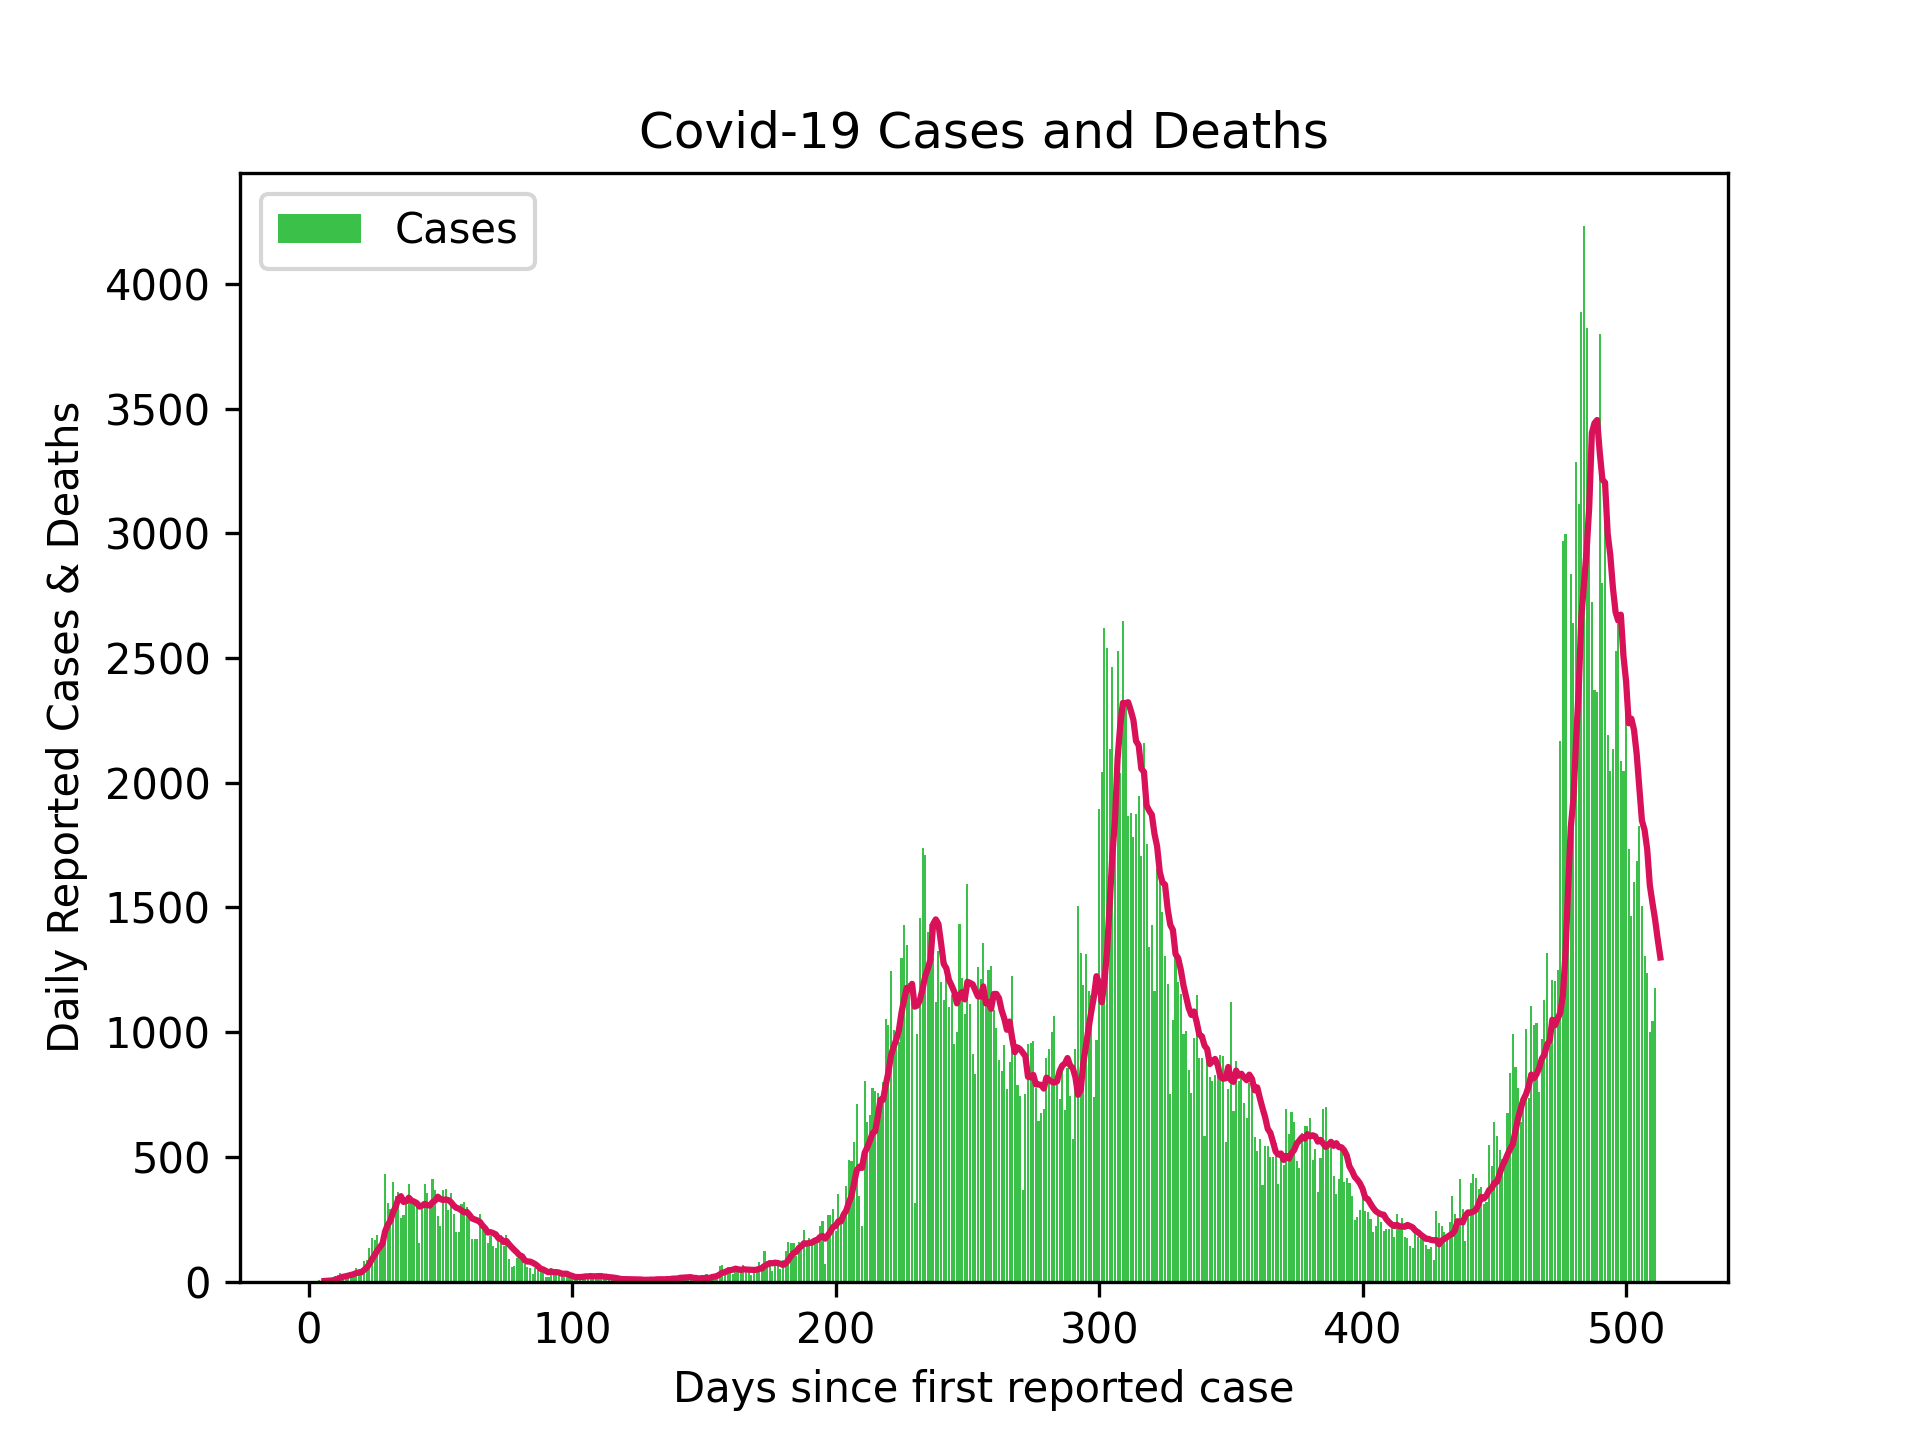
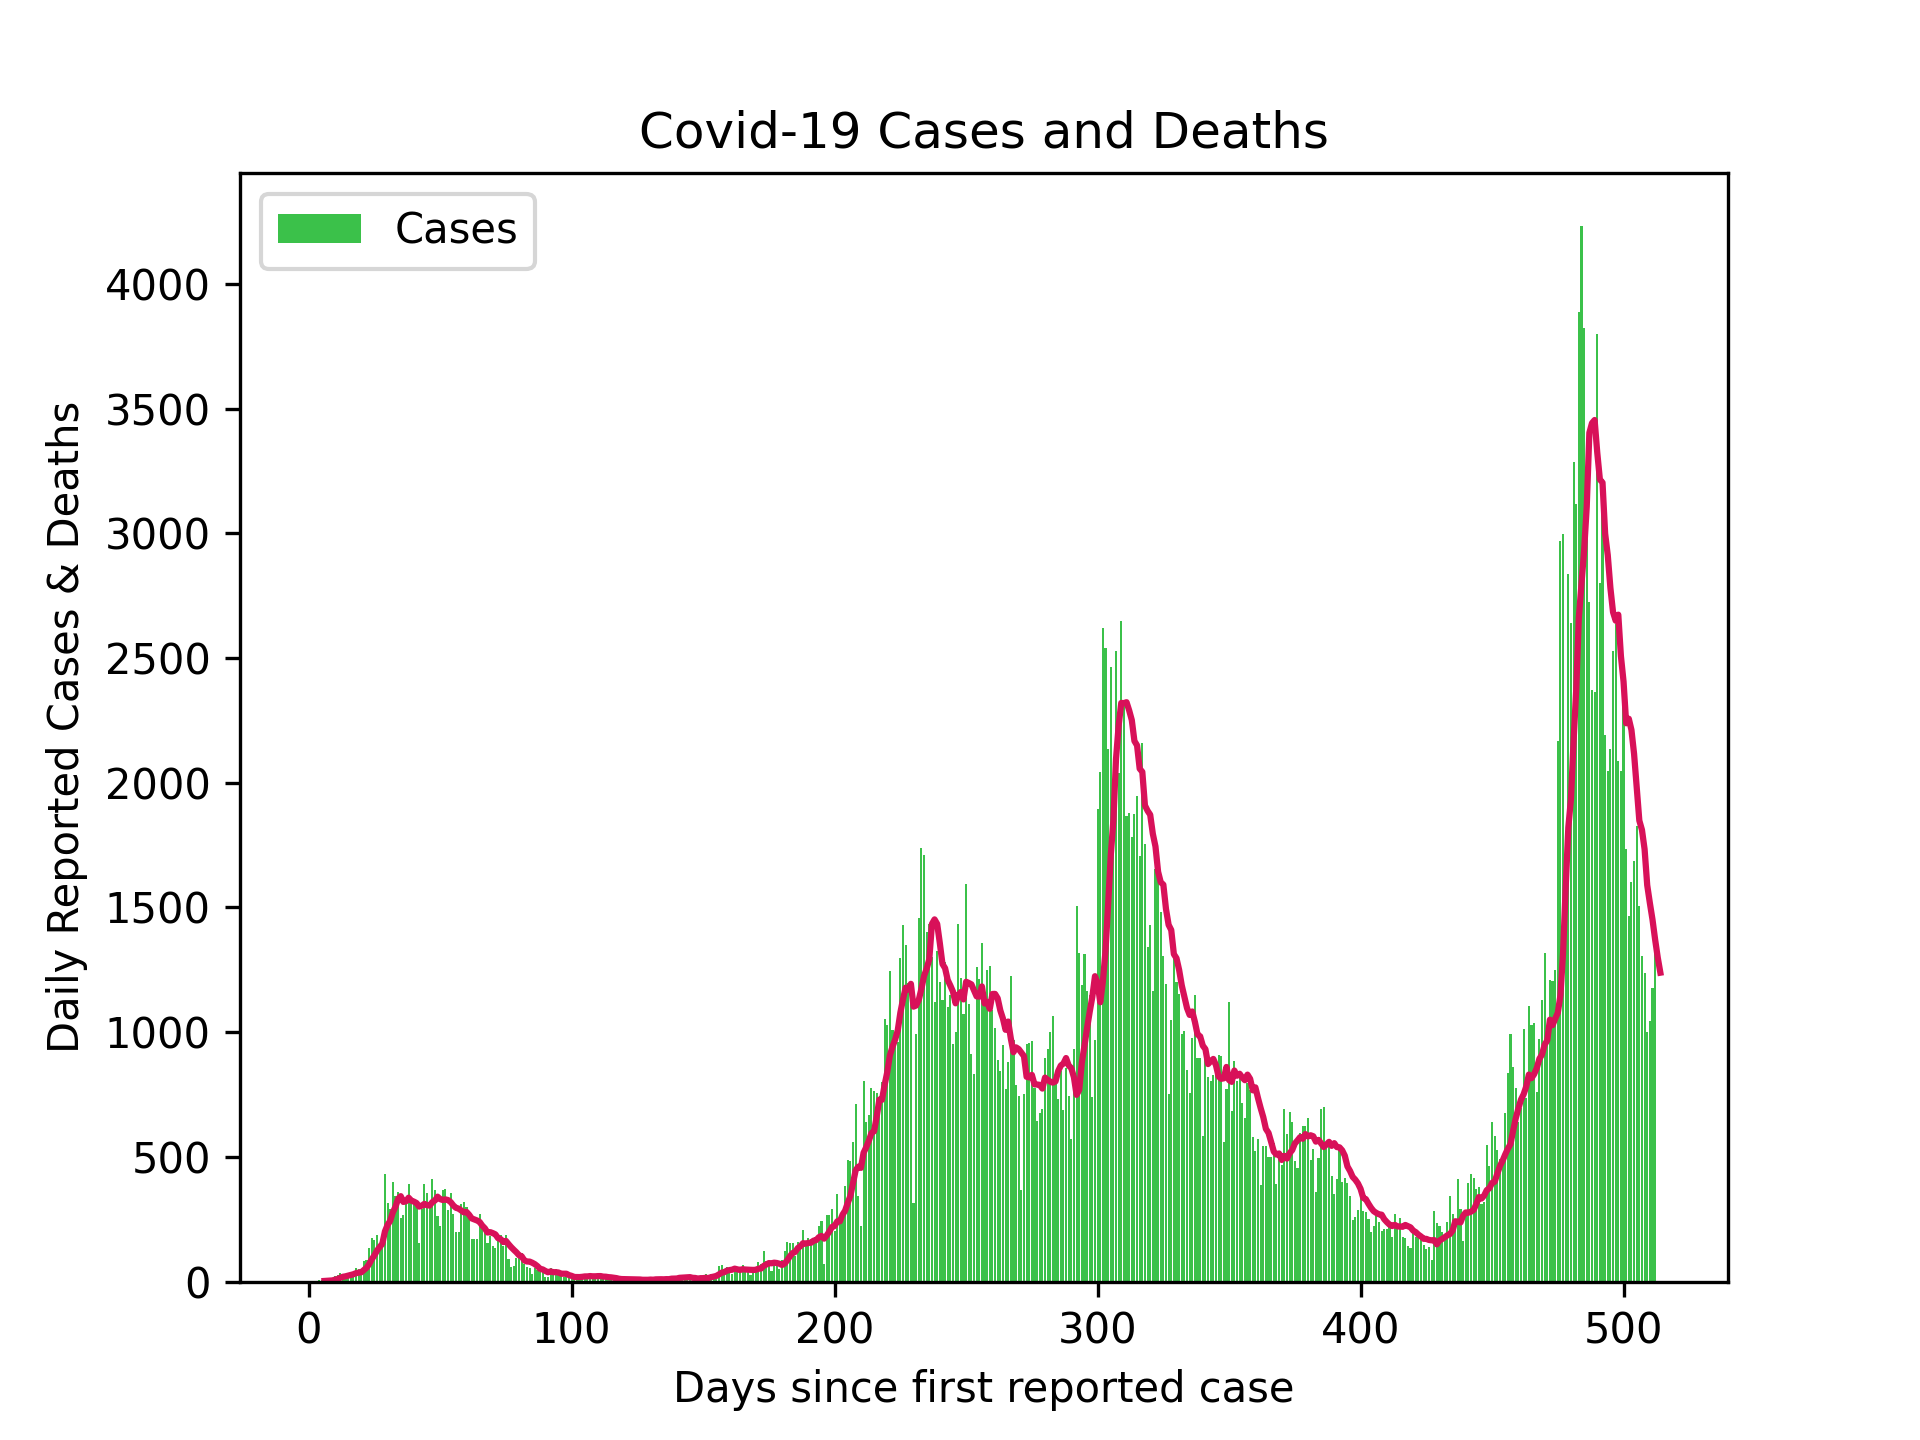
Updated Scottish cases 30/07/21

diff --git a/README.md b/README.md
@@ -1,4 +1,4 @@
-# Scottish Cases 28/07/21
+# Scottish Cases 29/07/21
 
 ![alt](scottish_cases.png)
 
